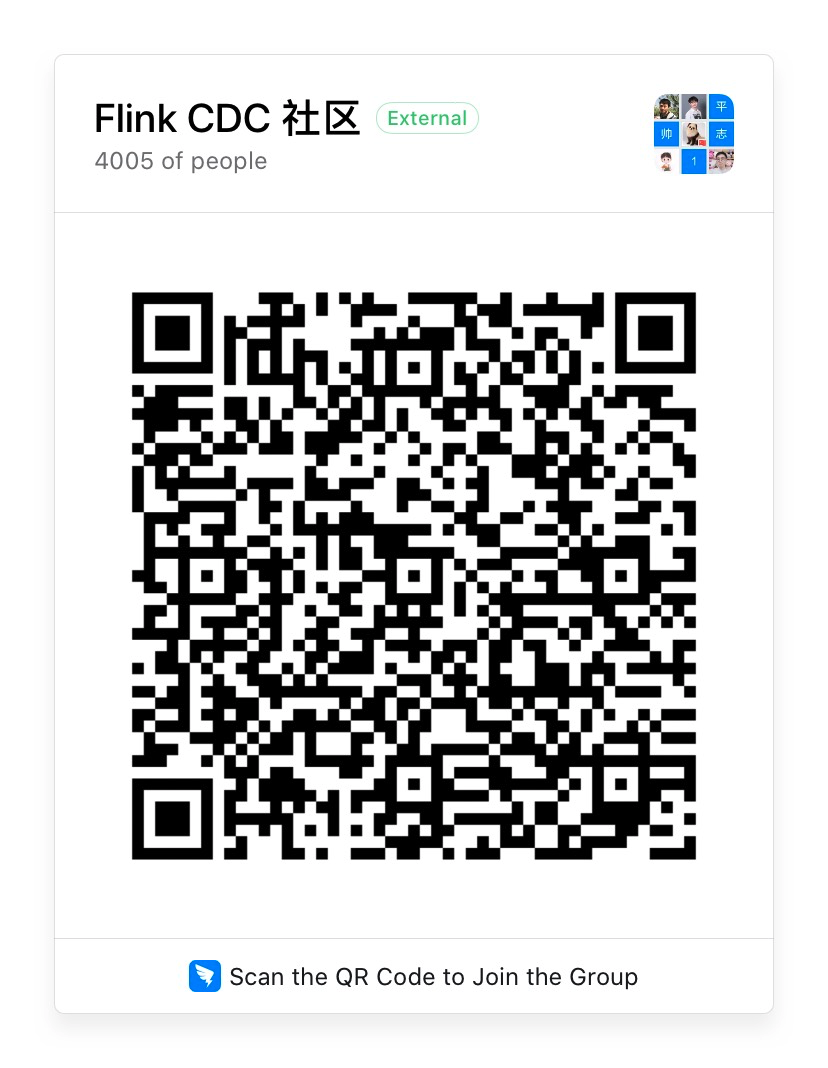
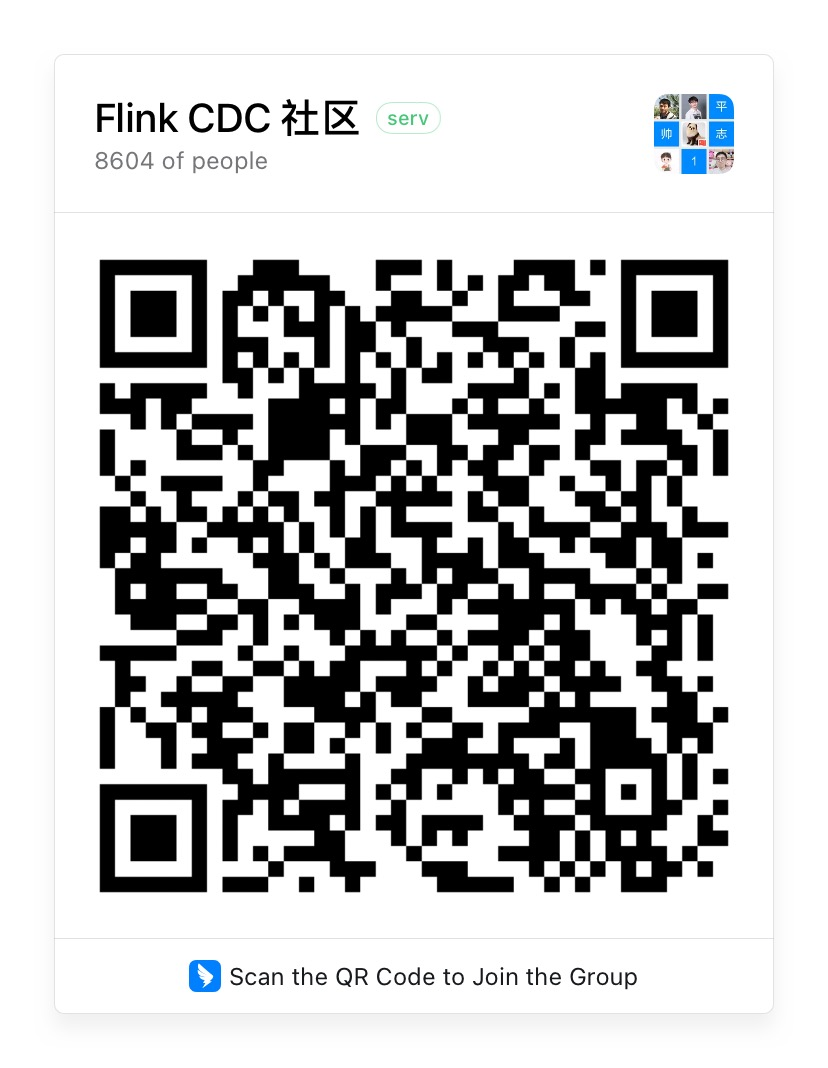
[docs] Update the outdated DingTalk QR code

diff --git a/README.md b/README.md
@@ -134,7 +134,7 @@ CDC Connectors for Apache Flink<sup>®</sup> welcomes anyone that wants to help 
   You can search the group number [**33121212**] or scan the following QR code to join in the group.
   
   <div align=center>
-     <img src="https://user-images.githubusercontent.com/9601882/158350201-a1de35e6-0399-4a91-b5b0-e2fd5d33e33c.png" width=400 />
+     <img src="https://user-images.githubusercontent.com/5163645/233297896-0195d0ae-eb1c-4604-977b-1d08e424c7e7.png" width=400 />
    </div>
 
 ## Documents
